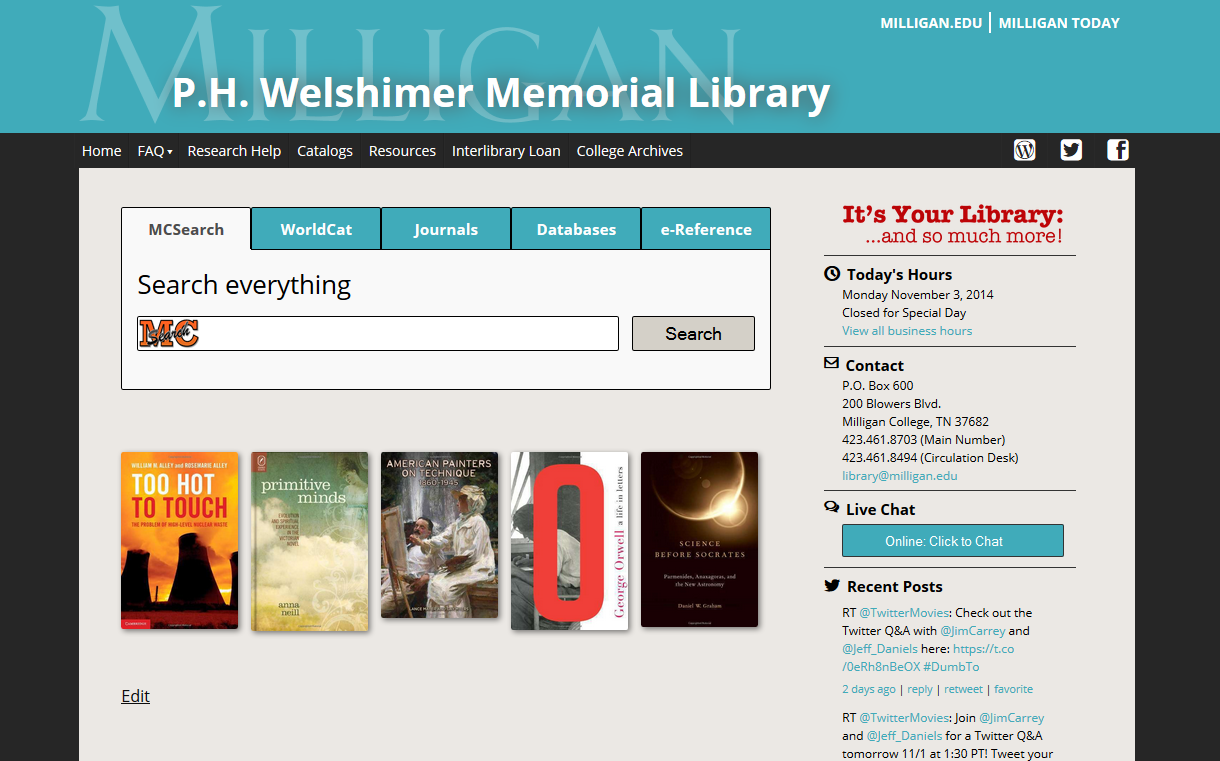
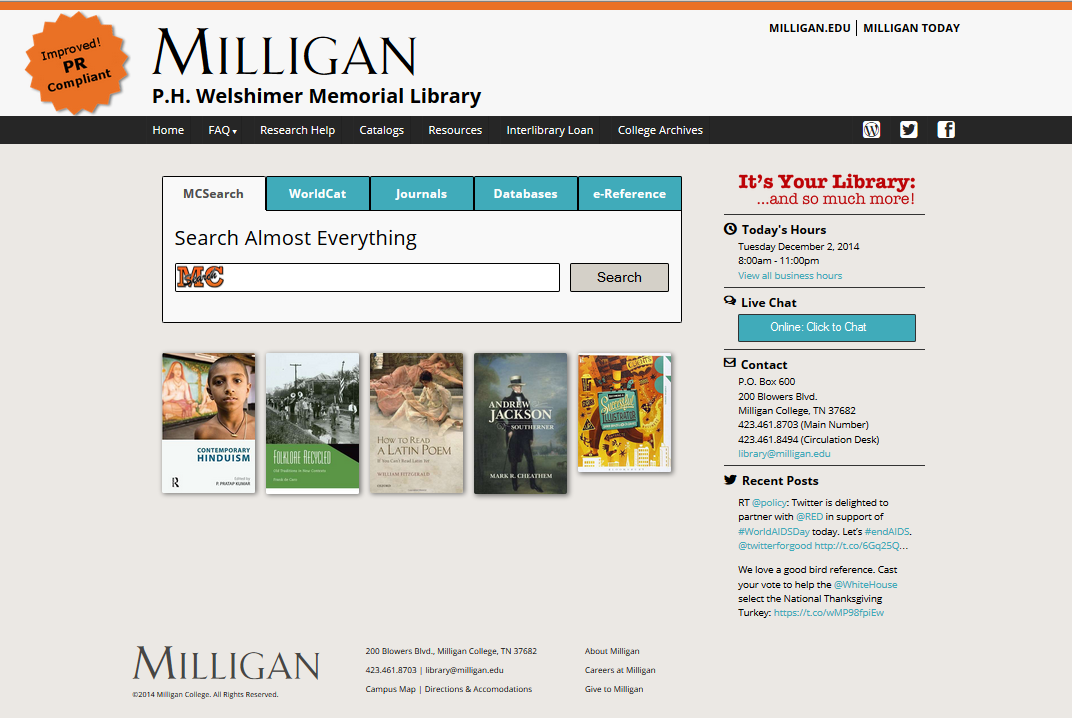
style.css heading comment fix; screenshot replace

diff --git a/style.css b/style.css
@@ -1,1 +1,18 @@
-@import url(http://fonts.googleapis.com/css?family=Open+Sans:400,700);.main-sprite,.main-mc,.main-mcicon,.main-mcsearch,.main-mctop_re,.main-smallstar,.main-top_re,#primary-menu .mcsearch>a:after,.mc:before,.mctop_re:before,.top_re:before,.key-mc,.key-topre{background:url('images/main-sce8efc5731.png') no-repeat}.main-mc{background-position:0 -45px}.main-mcicon{background-position:0 -71px}.main-mcsearch{background-position:0 0}.main-mctop_re{background-position:0 -19px}.main-smallstar{background-position:0 -123px}.main-top_re{background-position:0 -97px}html,body,div,span,applet,object,iframe,h1,h2,h3,h4,h5,h6,p,blockquote,pre,a,abbr,acronym,address,big,cite,code,del,dfn,em,font,ins,kbd,q,s,samp,small,strike,strong,sub,sup,tt,var,dl,dt,dd,ol,ul,li,fieldset,form,label,legend,table,caption,tbody,tfoot,thead,tr,th,td{border:0;font-family:inherit;font-size:100%;font-style:inherit;font-weight:inherit;margin:0;outline:0;padding:0;vertical-align:baseline}html{font-size:62.5%;overflow-y:scroll;-webkit-text-size-adjust:100%;-ms-text-size-adjust:100%}body{background:#fff}article,aside,details,figcaption,figure,footer,header,hgroup,nav,section{display:block}ol,ul{list-style:none}table{border-collapse:separate;border-spacing:0}caption,th,td{font-weight:normal;text-align:left}blockquote:before,blockquote:after,q:before,q:after{content:""}blockquote,q{quotes:"" ""}a:focus{outline:thin dotted}a:hover,a:active{outline:0}a img{border:0}h1,h2,h3,h4,h5,h6{clear:both}h1{font-size:1.25em;font-weight:bold}h2{font-size:1.25em}h3{font-size:1.1em;font-weight:bold}h4{font-weight:bold;font-style:italic}@media all and (max-width: 600px){.entry-title{font-size:1em;overflow:hidden;text-overflow:ellipsis;white-space:nowrap}}hr{background-color:#ccc;border:0;height:1px;margin-bottom:1.5em}p{margin-bottom:1.5em}p:last-of-type{margin-bottom:0}ul,ol{margin:0 0 1.5em 3em}ul{list-style:disc}ol{list-style:decimal}ul ul,ol ol,ul ol,ol ul{margin-bottom:0;margin-left:1.5em}dt{font-weight:bold}dd{margin:0 1.5em 1.5em}b,strong{font-weight:bold}dfn,cite,em,i{font-style:italic}blockquote{margin:0 1.5em}address{margin:0 0 1.5em}pre{background:#eee;font-family:"Courier 10 Pitch", Courier, monospace;font-size:15px;font-size:1.5rem;line-height:1.6;margin-bottom:1.6em;padding:1.6em;overflow:auto;max-width:100%}code,kbd,tt,var{font:15px Monaco, Consolas, "Andale Mono", "DejaVu Sans Mono", monospace}abbr,acronym{border-bottom:1px dotted #666;cursor:help}mark,ins{background:#fff9c0;text-decoration:none}sup,sub{font-size:75%;height:0;line-height:0;position:relative;vertical-align:baseline}sup{bottom:1ex}sub{top:.5ex}small{font-size:75%}big{font-size:125%}figure{margin:0}table{margin:0 0 1.5em;width:100%}th{font-weight:bold}a{color:#000}a:visited{color:#0d0d0d}a:hover,a:focus,a:active{color:#000}.alignleft{display:inline;float:left;margin-right:1.5em}.alignright{display:inline;float:right;margin-left:1.5em}.aligncenter{clear:both;display:block;margin:0 auto}.assistive-text{clip:rect(1px 1px 1px 1px);clip:rect(1px, 1px, 1px, 1px);position:absolute !important}#eds{height:auto;margin:0;padding:0;position:relative}#eds #eds-search{height:3em}@media all and (min-width: 600px){#eds #eds-search{margin:1em 0}}#eds form{width:100%}#eds img{height:2em;position:absolute;top:0.25em;left:0.25em;z-index:1}#eds input{-webkit-box-sizing:border-box;-moz-box-sizing:border-box;box-sizing:border-box;-webkit-border-radius:2px;-moz-border-radius:2px;-ms-border-radius:2px;-o-border-radius:2px;border-radius:2px;border:solid 1px #000;font-size:1.2em;height:2em;padding:0;position:absolute}#eds #ebscohostsearchtext{top:0;left:0;padding:0 2.5em 0 4em;margin:0 0 2em 0;width:100%}#eds #ebscohostsubmit{background-color:#64672d;-webkit-border-radius:2px;-moz-border-radius:2px;-ms-border-radius:2px;-o-border-radius:2px;border-radius:2px;text-shadow:#000 -1px -1px 3px,rgba(0,0,97,0.5) 0px 1px 1px;-webkit-box-shadow:rgba(255,255,255,0.25) 0px 1px 1px 0px inset;-moz-box-shadow:rgba(255,255,255,0.25) 0px 1px 1px 0px inset;box-shadow:rgba(255,255,255,0.25) 0px 1px 1px 0px inset;border-left:solid 1px #333;color:white;font-family:icon-font;top:0;right:0;width:2.5em;z-index:1}#eds #ebscohostsubmit:hover{background-color:#4d4f22;cursor:pointer}#eds #eds-more-toggle{display:none;border-top:solid 1px #64672d;color:#64672d;cursor:pointer;padding:0.25em;text-align:center}#eds #eds-more-toggle:hover{text-decoration:underline}#eds #eds-more-toggle:before{content:'More'}#eds #eds-more-toggle:after{content:'\25BE'}#eds .eds-more-toggle-open:before{content:"Less" !important}#eds .eds-more-toggle-open:after{content:"\25B4" !important}#eds #eds-more{display:none;height:2em;position:relative}#eds #eds-more input[type='checkbox']{margin:0;padding:0}#eds #eds-more label{margin:0;padding:0}#eds .eds-more-open{display:block !important}#quicklinks{overflow:auto;margin:0;padding:0}#quicklinks ul{margin:0;padding:0}#quicklinks li{list-style:none}#quicklinks a{text-decoration:none;display:block;-webkit-border-radius:2px;-moz-border-radius:2px;-ms-border-radius:2px;-o-border-radius:2px;border-radius:2px;background-color:#40abba;color:#fff;margin:0.25em 0;padding:0.5em 2em 0.5em 3em;position:relative;overflow:hidden;text-overflow:ellipsis;white-space:nowrap}#quicklinks a:hover{background-color:#ea7125;color:#fff}#quicklinks a:after{font-family:icon-font;content:'\e016';position:absolute;right:0.5em}#quicklinks a:before{font-family:icon-font;font-size:1.1em;position:absolute;left:1em}#quicklinks .article>a:before{content:"\e008"}#quicklinks .book>a:before{content:"\e00a"}#quicklinks .search>a:before{content:"\e001"}#quicklinks .web>a:before{content:"\e015"}#quicklinks .image>a:before{content:"\e00d"}.lib-thing{padding:3em 0;height:16em;width:100%;overflow:hidden}@media all and (max-width: 600px){.lib-thing{display:none}}#mobile-menu-wrapper{background:#262626;height:46px;color:#fff;display:block;margin:0;padding:0.5em 0.25em;position:fixed;top:0;left:0;text-decoration:none;width:100%;z-index:3;border-bottom:5px solid #ea7125}@media all and (min-width: 800px){#mobile-menu-wrapper{display:none}}#menu-toggle{background-color:transparent;border:none;padding:0.5em;height:3em;cursor:pointer}.icon-bar{background-color:#fff;-webkit-border-radius:2px;-moz-border-radius:2px;-ms-border-radius:2px;-o-border-radius:2px;border-radius:2px;display:block;margin-bottom:0.3em;height:3px;width:2em}#primary-menu .main-navigation{font-size:1.25em;display:none;z-index:1}#primary-menu .main-navigation ul{margin:0;padding:0;background:#333}#primary-menu .main-navigation li{list-style:none}#primary-menu .main-navigation li a{border-left:solid 1px #454545;border-right:solid 1px #212121;color:#fff;display:block;padding:0.5em 1em;text-decoration:none}#primary-menu .parent{cursor:pointer}@media all and (min-width: 800px){#primary-menu .parent>a{padding-right:1em !important}}#primary-menu .parent>a:after{float:right;content:'\002b'}@media all and (min-width: 800px){#primary-menu .parent>a:after{position:absolute;top:0.6em;right:0.25em;padding-left:2px;content:"\25BE" !important}}#primary-menu .open-item>a:after{content:'\2013'}#primary-menu .main-navigation .sub-menu{display:none;margin:0}#primary-menu .main-navigation .sub-menu a{background:#262626;border:none;border-bottom:solid 1px #333;padding:0.5em 3em}#primary-menu .main-navigation .sub-menu a:last-child{border:none}#primary-menu .main-navigation li:hover>a{background:#ea7125;-webkit-transition:all 200ms ease-out;-webkit-transition-delay:100ms;-moz-transition:all 200ms ease-out 100ms;-o-transition:all 200ms ease-out 100ms;transition:all 200ms ease-out 100ms}#primary-menu .display-toggle{display:block !important}#primary-menu .menu-icon{position:relative}#primary-menu .sub-menu .menu-icon a{padding:0.5em 0.5em 0.5em 2.5em !important}#primary-menu .menu-icon>a:before{position:absolute;top:0.35em;left:15px;font-family:icon-font;font-size:1.25em;text-align:center}@media all and (min-width: 800px){#primary-menu .menu-icon>a:before{top:0.4em;left:0.5em;font-size:1.25em}}#primary-menu .article>a:before{content:"\e008"}#primary-menu .audio>a:before{content:"\e009"}#primary-menu .book>a:before{content:"\e00a"}#primary-menu .image>a:before{content:"\e00d"}#primary-menu .search>a:before{content:"\e001"}#primary-menu .sheetmusic>a:before{content:"\e000"}#primary-menu .speech>a:before{content:"\e017"}#primary-menu .video>a:before{content:"\e00c"}#primary-menu .web>a:before{content:"\e015"}#primary-menu .telephone>a:before{content:"\e014"}#primary-menu .mail>a:before{content:"\e002"}#primary-menu .mcsearch>a:before{content:"\e001"}#primary-menu .mcsearch>a:after{display:inline-block;width:3em;height:20px;position:absolute;right:1.5em;top:0.5em;content:"";background-position:0 0}#primary-menu .twitter>a:before{content:"\e01c"}#primary-menu .facebook>a:before{content:"\e019"}#primary-menu .wordpress>a:before{content:"\e02a"}#primary-menu .div-below{border-bottom:solid 1px #1a1a1a}@media all and (min-width: 800px){#primary-menu .div-below{border-bottom:solid 1px #262626}}#primary-menu .div-below>a{padding-bottom:0.25em}#primary-menu .div-above{border-top:solid 1px #333}@media all and (min-width: 800px){#primary-menu .div-above{border-top:solid 1px #404040}}#primary-menu .div-above>a{padding-top:0.25empx}@media all and (min-width: 800px){#primary-menu #topbar{background-color:#262626;position:absolute;width:100%;min-width:960px;left:0;top:9.5em;z-index:1;height:2.5em}#primary-menu .main-navigation{background:#262626;clear:both;display:block;font-size:1em;position:relative;top:9.5em;left:3.2em;width:93%;z-index:99999}#primary-menu .main-navigation ul{list-style:none;margin:0;padding-left:0}#primary-menu .main-navigation li{float:left;position:relative}#primary-menu .main-navigation li a{background:#262626;border-left:solid 1px #292929;border-right:solid 1px #212121;display:block;padding:0.5em;text-decoration:none}#primary-menu .main-navigation .sub-menu{-webkit-transition:all 200ms ease-out;-webkit-transition-delay:100ms;-moz-transition:all 200ms ease-out 100ms;-o-transition:all 200ms ease-out 100ms;transition:all 200ms ease-out 100ms;display:block;float:left;margin:0;opacity:0;position:absolute;top:2.5em;left:0;visibility:hidden}#primary-menu .main-navigation .sub-menu a{background:#333;border-top:#262626;padding:0.5em}#primary-menu .main-navigation ul ul a{width:18em}#primary-menu .main-navigation ul li:hover>ul{visibility:visible;opacity:1}#primary-menu #menu-primary li{margin-right:1em}}.secondary-menu-main{display:none}.secondary-menu-select{display:none;position:fixed;top:0.8em;right:1em;z-index:4}.secondary-menu-select select{width:6.5em}@media all and (min-width: 800px){.secondary-menu-main{display:block;width:32em;position:absolute;top:5px;right:5px;z-index:1}.secondary-menu-main ul{margin:0;padding:0}.secondary-menu-main li{list-style:none;float:right;position:relative;margin:0.5em 0.25em;padding-right:0.5em;border-right:solid 2px #000}.secondary-menu-main li:first-child{border:none}.secondary-menu-main a{color:#000;font-weight:700;text-decoration:none;text-shadow:none;display:block;height:1.5em}.secondary-menu-main a:hover{color:#ea7125}.secondary-menu-select{display:none}}.main-login{width:4em}.main-news{width:8em}.main-home{width:8.25em}.hentry{margin:0 0 1.5em}.entry-meta{clear:both}.byline{display:none}.single .byline,.group-blog .byline{display:inline}.entry-content,.entry-summary{margin:0.5em 0 0}.page-links{clear:both;margin:0 0 1.5em}.blog .format-aside .entry-title,.archive .format-aside .entry-title{display:none}.site-header img,.entry-content img,.comment-content img,.widget img{max-width:100%}.site-header img,.entry-content img,img[class*="align"],img[class*="wp-image-"]{height:auto}.site-header img,.entry-content img,img.size-full{max-width:100%;width:auto}.entry-content img.wp-smiley,.comment-content img.wp-smiley{border:none;margin-bottom:0;margin-top:0;padding:0}.wp-caption{border:1px solid #ccc;max-width:100%}.wp-caption.aligncenter,.wp-caption.alignleft,.wp-caption.alignright{margin-bottom:1.5em}.wp-caption img{display:block;margin:1.2% auto 0;max-width:98%}.wp-caption-text{text-align:center}.wp-caption .wp-caption-text{margin:0.8075em 0}#content .gallery{margin-bottom:1.5em}#content .gallery a img{border:none;height:auto;max-width:90%}#content .gallery dd{margin:0}embed,iframe,object{max-width:100%}#content .site-navigation{margin:0 0 1.5em;overflow:hidden}#content .nav-previous{float:left;width:50%}#content .nav-next{float:right;text-align:right;width:50%}.widget{margin:0}.clock-icon:before{margin-right:0.5em;font-family:icon-font;content:"\e600"}#searchsubmit{display:none}#secondary aside{padding:0.5em 0;border-bottom:1px solid #333}#secondary aside a{text-decoration:none;color:#40abba}#secondary aside a:visited{color:#40abba}#secondary aside a:focus{color:#40abba}#secondary aside a:hover{color:#ea7125}#secondary aside a:active{color:#40abba}#secondary aside a:hover{text-decoration:underline}#secondary aside:first-child{padding-top:0}#secondary aside:last-child{-webkit-box-shadow:none;-moz-box-shadow:none;box-shadow:none;border-bottom:none;padding-bottom:0}.textwidget{padding:0 1em 0 1.5em}.contact-icon:before{margin-right:0.5em;font-family:icon-font;content:"\e002"}.twitter-icon:before{margin-right:0.5em;font-family:icon-font;content:"\e01c"}#twitter .tweet-text,#twitter .tweet-foot{padding:0 0 0.5em 0}#twitter .tweet-foot{display:none;font-size:0.9em}#twitter .tweet{padding:0.5em 0 0 0}#twitter .tweet:last-of-type{border-bottom:none}.libraryh3lp{margin:0;padding:0}.libraryh3lp a:hover{text-decoration:none}.chat-icon:before{margin-right:0.5em;font-family:icon-font;content:"\e017"}.live-chat{position:relative;overflow:auto;-webkit-border-radius:2px;-moz-border-radius:2px;-ms-border-radius:2px;-o-border-radius:2px;border-radius:2px;background-color:#40abba;border:solid 1px #333;color:#fff;margin:0.25em 0;padding:0.5em 2em 0.5em 0.5em;width:100%;cursor:pointer}.on{background-color:#40abba}.on:hover{-webkit-transition:all 200ms ease-out;-webkit-transition-delay:100ms;-moz-transition:all 200ms ease-out 100ms;-o-transition:all 200ms ease-out 100ms;transition:all 200ms ease-out 100ms;background-color:#ea7125;color:#fff}.off{background-color:#ebe8e4;color:#333}.off:hover{background-color:#ebe8e4;color:#333}*{-webkit-box-sizing:border-box;-moz-box-sizing:border-box;box-sizing:border-box}html{position:relative;top:46px}@media all and (min-width: 800px){html{top:0;border-top:10px solid #ea7125}}body{background-image:url('images/bg.png?1417464156');background-color:#ebe8e4;background-repeat:repeat-x;min-width:320px;max-width:1100px;position:static}@media all and (min-width: 800px){body{min-width:960px;margin:0 auto}}.site-header{background-color:#f7f7f7;height:8.5em}@media all and (min-width: 600px){.site-header{height:11em}}@media all and (min-width: 800px){.site-header{height:16em}}.milligan-logo{font:normal normal normal 5em 'icon-font';color:#000;margin:0.1em 0 0 0.1em;float:left}.milligan-logo img{width:100%;height:auto}@media all and (min-width: 600px){.milligan-logo{font-size:6em;margin:0.15em 0 0 0.1em}}@media all and (min-width: 800px){.milligan-logo{font-size:6em;margin:-0.3em 0 0 0.5em}}.welshimer-logo{position:relative;font-family:"open sans", sans-serif;font-style:normal;font-size:1.8em;color:#000;margin:-0.1em 0px 0px 0.2em;float:left}@media all and (min-width: 600px){.welshimer-logo{font-size:2.5em;margin:0em 0 0 0.2em}}@media all and (min-width: 800px){.welshimer-logo{font-size:2.5em;margin:0em 0 0 1.2em}}.social-menu{float:left;width:100%;font-family:'icon-font';z-index:999999}.social-menu ul{overflow:auto}.social-menu li{text-align:center;width:33.3333%;margin:0;font-size:1.5em;list-style:none;float:left}@media all and (min-width: 800px){.social-menu{width:10em;position:absolute;top:0;right:0}.social-menu ul{background-color:transparent !important}.social-menu a{padding:0.075em 0.5em !important}.social-menu a:last-of-type{border-right:none !important}}#page{background-color:#ebe8e4;position:relative;margin:0;width:100%;overflow:hidden}@media all and (min-width: 800px){#page{margin:0 2%;max-width:1100px;overflow:visible;width:96%}}.site-content{float:left;margin:0 -22em 0 0;width:100%}@media all and (min-width: 800px){.site-content{padding:1% 0 0 2.5%;min-height:62em}}#content{margin:0 1em 0 0}@media all and (min-width: 800px){#content{margin:0 32em 0 0}}.widget-area{background:#fff;overflow:visible;width:22em;position:absolute;top:10em;right:-20.5em;-webkit-border-radius:2px;-moz-border-radius:2px;-ms-border-radius:2px;-o-border-radius:2px;border-radius:2px;z-index:99;transition:right linear 0.25s;border:1px solid #000;border-right:none}@media all and (min-width: 800px){.widget-area{background:#ebe8e4;-moz-border-radius-topleft:2px;-webkit-border-top-left-radius:2px;border-top-left-radius:2px;-moz-border-radius-bottomleft:2px;-webkit-border-bottom-left-radius:2px;border-bottom-left-radius:2px;right:5%;top:15.75em;transition:none;border:none}}.side-expand{display:block;visibility:visible;position:absolute;top:5%;left:0;width:1.3em;height:90%;background-color:#fff;z-index:0}.side-expand:after{font-family:icon-font;font-size:1em;color:#000;content:"\e00e";position:absolute;top:49%;left:5px;vertical-align:center;cursor:pointer}.side-expand:hover:after{color:#000;left:5px}@media all and (min-width: 800px){.side-expand{visibility:hidden}}.side-expand-open{right:0}.side-expand-open .side-expand:after{content:"\e00f"}#tertiary{clear:right}#colophon{clear:both}.site-footer{background:#ebe8e4;color:#000 !important;width:100%;height:8em}@media all and (min-width: 800px){.site-footer{background:transparent}}.footer-logo{font-family:'icon-font';font-size:3.5em;display:block;opacity:0.7}.footer-logo img{width:18em}.site-info{display:block;font-size:75%}.footer-column{display:inline-block;float:left;margin-right:5em}.footer-column p{margin:0;padding-top:0.8em;font-size:85%}.footer-column p a{text-decoration:none}.footer-column p a:hover{text-decoration:underline}.foot-noscript{font-family:"Open Sans",sans-serif;text-align:center;background:rgba(255,0,0,0.9);color:#fff;font-size:1.5em;height:4em;padding:1em 0;margin:0;position:fixed;bottom:0;left:0;width:100%;z-index:999999999}.foot-noscript a{color:#fff;font-weight:bold;text-decoration:underline}.old-ie-nojs{display:none}.profile{display:block;margin-top:2em}.profile p{margin-bottom:1em}.profile img{display:block}@font-face{font-family:"icon-font";font-style:normal;font-weight:normal;src:url("fonts/icomoon.eot?#iefix") format("embedded-opentype"),url("fonts/icomoon.woff") format("woff"),url("fonts/icomoon.ttf") format("truetype"),url("fonts/icomoon.svg#icon-font") format("svg")}.body-text{color:#000;font-family:"Open Sans",sans-serif;font-size:1.6em;font-weight:regular;line-height:1.5;padding:1em}.menu-text{color:#e6e6e6;font-family:"Open Sans",sans-serif;font-size:1.4em;font-weight:100;line-height:1.5}.widget-text{color:#000;font-family:"Open Sans",sans-serif;font-size:1.2em;font-weight:regular;line-height:1.5;padding:0.5em 0.5em 0.5em 1.5em}@media all and (min-width: 800px){.widget-text{color:#000;padding:0.5em}}.alert{-webkit-border-radius:2px;-moz-border-radius:2px;-ms-border-radius:2px;-o-border-radius:2px;border-radius:2px;font-size:0.8em;padding:0.75em}.success{border:1px solid #64672d;background-color:#e8e9cd}.success a{color:#64672d}.success:focus{background-color:#fff}.fail{border:1px solid #bf0000;background-color:#ffe3e3}.fail a{color:#bf0000}.fail:focus{background-color:#fff}.info{border:1px solid #40abba;background-color:#fff}.info a{color:#40abba}.info:focus{background-color:#fff}.laylah{left:-9999px;position:absolute;top:-9999px}.welshimer-form .form{margin:0.5em 0}.welshimer-form .submit{display:block;-webkit-border-radius:2px;-moz-border-radius:2px;-ms-border-radius:2px;-o-border-radius:2px;border-radius:2px;background-color:#40abba;border:solid 1px #333;color:#fff;margin:1em 0;padding:0.5em 2em;text-align:center;text-decoration:none}.welshimer-form .submit:hover{-webkit-transition:all 200ms ease-out;-webkit-transition-delay:100ms;-moz-transition:all 200ms ease-out 100ms;-o-transition:all 200ms ease-out 100ms;transition:all 200ms ease-out 100ms;background-color:#ea7125;cursor:pointer}.welshimer-form .text,.welshimer-form .textarea{display:inline-block;width:100%;padding:0.5em;margin-right:1%;vertical-align:top}.welshimer-form .quarter{width:24%}.welshimer-form .half{width:49%}.welshimer-form .three-fourths{width:74%}.welshimer-form .full{width:99%}.welshimer-form .label{display:block}@media all and (min-width: 600px){.welshimer-form .text,.welshimer-form .textarea{width:74%}.welshimer-form .three-fourths{width:49%}.welshimer-form .half{width:24%}.welshimer-form .quarter{width:24%}.welshimer-form .label{display:inline-block;width:24%;margin-right:1%}}.acc-list{margin:0.5em 0;padding:0;list-style:none}.acc-list-category{display:block;-webkit-border-radius:2px;-moz-border-radius:2px;-ms-border-radius:2px;-o-border-radius:2px;border-radius:2px;background-color:#40abba;color:#fff;cursor:pointer;margin:0.25em 0;padding:0.5em 2em 0.5em 0.5em;position:relative;overflow:hidden;text-overflow:ellipsis;white-space:nowrap}.acc-list-category:hover{background-color:#ea7125;color:#fff}.acc-list-category:after{content:'\002b';position:absolute;right:0.5em;font-family:icon-font}div.acc-list a.acc-list-category{white-space:normal}div.acc-list a.acc-list-category:after{content:none}.open-item>a:after{content:'\2013'}.acc-sublist{border-left:solid 1px #40abba;list-style:none;margin:0;padding:0}.acc-sublist li{background:rgba(100,103,45,0.05);padding:0 0 0 3.5em;position:relative}.acc-sublist li:before{content:"";display:inline-block;width:3em;height:26px;position:absolute;left:0.25em;top:0}.acc-sublist li:nth-of-type(even){background:rgba(64,171,186,0.2)}.acc-sublist li:hover{background:rgba(64,171,186,0.4)}.acc-sublist a{color:#000;text-decoration:none}div.acc-list div.acc-sublist{padding:10px}div.acc-list div.acc-sublist li{padding:0}div.acc-list div.open-item>a:after{content:none !important}.mc:before{background-position:0 -45px}.mctop_re:before{background-position:0 -19px}.top_re:before{background-position:0 -97px}.key span{display:block;margin:0.25em;padding:0 0 0 2em}.key-mc{background-position:0 -45px}.key-topre{background-position:0 -123px}.hidden{display:none !important}.logged-in #mobile-menu-wrapper{top:0px}.logged-in .secondary-menu-select{top:12px}
+/*!
+Theme Name: Welshimer 2015 PR Compliant Edition
+Theme URI: http://github.com/dbaker3/welshimer2015
+Author: David Baker
+Author URI: http://github.com/dbaker3/
+Description: P.H. Welshimer Memorial Library
+Version: 1.0
+License: GNU General Public License v2 or later
+License URI: http://www.gnu.org/licenses/gpl-2.0.html
+Tags: MilliganCollege
+Text Domain: Welshimer
+
+Forked from Welshimer2013_r by Jack Weinbender: 
+(https://github.com/mclibrary/welshimer2013_r)
+
+This theme, like WordPress, is licensed under the GPL.
+Built on _s by Automattic
+*/@import url(http://fonts.googleapis.com/css?family=Open+Sans:400,700);.main-sprite,.main-mc,.main-mcicon,.main-mcsearch,.main-mctop_re,.main-smallstar,.main-top_re,#primary-menu .mcsearch>a:after,.mc:before,.mctop_re:before,.top_re:before,.key-mc,.key-topre{background:url('images/main-sce8efc5731.png') no-repeat}.main-mc{background-position:0 -45px}.main-mcicon{background-position:0 -71px}.main-mcsearch{background-position:0 0}.main-mctop_re{background-position:0 -19px}.main-smallstar{background-position:0 -123px}.main-top_re{background-position:0 -97px}html,body,div,span,applet,object,iframe,h1,h2,h3,h4,h5,h6,p,blockquote,pre,a,abbr,acronym,address,big,cite,code,del,dfn,em,font,ins,kbd,q,s,samp,small,strike,strong,sub,sup,tt,var,dl,dt,dd,ol,ul,li,fieldset,form,label,legend,table,caption,tbody,tfoot,thead,tr,th,td{border:0;font-family:inherit;font-size:100%;font-style:inherit;font-weight:inherit;margin:0;outline:0;padding:0;vertical-align:baseline}html{font-size:62.5%;overflow-y:scroll;-webkit-text-size-adjust:100%;-ms-text-size-adjust:100%}body{background:#fff}article,aside,details,figcaption,figure,footer,header,hgroup,nav,section{display:block}ol,ul{list-style:none}table{border-collapse:separate;border-spacing:0}caption,th,td{font-weight:normal;text-align:left}blockquote:before,blockquote:after,q:before,q:after{content:""}blockquote,q{quotes:"" ""}a:focus{outline:thin dotted}a:hover,a:active{outline:0}a img{border:0}h1,h2,h3,h4,h5,h6{clear:both}h1{font-size:1.25em;font-weight:bold}h2{font-size:1.25em}h3{font-size:1.1em;font-weight:bold}h4{font-weight:bold;font-style:italic}@media all and (max-width: 600px){.entry-title{font-size:1em;overflow:hidden;text-overflow:ellipsis;white-space:nowrap}}hr{background-color:#ccc;border:0;height:1px;margin-bottom:1.5em}p{margin-bottom:1.5em}p:last-of-type{margin-bottom:0}ul,ol{margin:0 0 1.5em 3em}ul{list-style:disc}ol{list-style:decimal}ul ul,ol ol,ul ol,ol ul{margin-bottom:0;margin-left:1.5em}dt{font-weight:bold}dd{margin:0 1.5em 1.5em}b,strong{font-weight:bold}dfn,cite,em,i{font-style:italic}blockquote{margin:0 1.5em}address{margin:0 0 1.5em}pre{background:#eee;font-family:"Courier 10 Pitch", Courier, monospace;font-size:15px;font-size:1.5rem;line-height:1.6;margin-bottom:1.6em;padding:1.6em;overflow:auto;max-width:100%}code,kbd,tt,var{font:15px Monaco, Consolas, "Andale Mono", "DejaVu Sans Mono", monospace}abbr,acronym{border-bottom:1px dotted #666;cursor:help}mark,ins{background:#fff9c0;text-decoration:none}sup,sub{font-size:75%;height:0;line-height:0;position:relative;vertical-align:baseline}sup{bottom:1ex}sub{top:.5ex}small{font-size:75%}big{font-size:125%}figure{margin:0}table{margin:0 0 1.5em;width:100%}th{font-weight:bold}a{color:#000}a:visited{color:#0d0d0d}a:hover,a:focus,a:active{color:#000}.alignleft{display:inline;float:left;margin-right:1.5em}.alignright{display:inline;float:right;margin-left:1.5em}.aligncenter{clear:both;display:block;margin:0 auto}.assistive-text{clip:rect(1px 1px 1px 1px);clip:rect(1px, 1px, 1px, 1px);position:absolute !important}#eds{height:auto;margin:0;padding:0;position:relative}#eds #eds-search{height:3em}@media all and (min-width: 600px){#eds #eds-search{margin:1em 0}}#eds form{width:100%}#eds img{height:2em;position:absolute;top:0.25em;left:0.25em;z-index:1}#eds input{-webkit-box-sizing:border-box;-moz-box-sizing:border-box;box-sizing:border-box;-webkit-border-radius:2px;-moz-border-radius:2px;-ms-border-radius:2px;-o-border-radius:2px;border-radius:2px;border:solid 1px #000;font-size:1.2em;height:2em;padding:0;position:absolute}#eds #ebscohostsearchtext{top:0;left:0;padding:0 2.5em 0 4em;margin:0 0 2em 0;width:100%}#eds #ebscohostsubmit{background-color:#64672d;-webkit-border-radius:2px;-moz-border-radius:2px;-ms-border-radius:2px;-o-border-radius:2px;border-radius:2px;text-shadow:#000 -1px -1px 3px,rgba(0,0,97,0.5) 0px 1px 1px;-webkit-box-shadow:rgba(255,255,255,0.25) 0px 1px 1px 0px inset;-moz-box-shadow:rgba(255,255,255,0.25) 0px 1px 1px 0px inset;box-shadow:rgba(255,255,255,0.25) 0px 1px 1px 0px inset;border-left:solid 1px #333;color:white;font-family:icon-font;top:0;right:0;width:2.5em;z-index:1}#eds #ebscohostsubmit:hover{background-color:#4d4f22;cursor:pointer}#eds #eds-more-toggle{display:none;border-top:solid 1px #64672d;color:#64672d;cursor:pointer;padding:0.25em;text-align:center}#eds #eds-more-toggle:hover{text-decoration:underline}#eds #eds-more-toggle:before{content:'More'}#eds #eds-more-toggle:after{content:'\25BE'}#eds .eds-more-toggle-open:before{content:"Less" !important}#eds .eds-more-toggle-open:after{content:"\25B4" !important}#eds #eds-more{display:none;height:2em;position:relative}#eds #eds-more input[type='checkbox']{margin:0;padding:0}#eds #eds-more label{margin:0;padding:0}#eds .eds-more-open{display:block !important}#quicklinks{overflow:auto;margin:0;padding:0}#quicklinks ul{margin:0;padding:0}#quicklinks li{list-style:none}#quicklinks a{text-decoration:none;display:block;-webkit-border-radius:2px;-moz-border-radius:2px;-ms-border-radius:2px;-o-border-radius:2px;border-radius:2px;background-color:#40abba;color:#fff;margin:0.25em 0;padding:0.5em 2em 0.5em 3em;position:relative;overflow:hidden;text-overflow:ellipsis;white-space:nowrap}#quicklinks a:hover{background-color:#ea7125;color:#fff}#quicklinks a:after{font-family:icon-font;content:'\e016';position:absolute;right:0.5em}#quicklinks a:before{font-family:icon-font;font-size:1.1em;position:absolute;left:1em}#quicklinks .article>a:before{content:"\e008"}#quicklinks .book>a:before{content:"\e00a"}#quicklinks .search>a:before{content:"\e001"}#quicklinks .web>a:before{content:"\e015"}#quicklinks .image>a:before{content:"\e00d"}.lib-thing{padding:3em 0;height:16em;width:100%;overflow:hidden}@media all and (max-width: 600px){.lib-thing{display:none}}#mobile-menu-wrapper{background:#262626;height:46px;color:#fff;display:block;margin:0;padding:0.5em 0.25em;position:fixed;top:0;left:0;text-decoration:none;width:100%;z-index:3;border-bottom:5px solid #ea7125}@media all and (min-width: 800px){#mobile-menu-wrapper{display:none}}#menu-toggle{background-color:transparent;border:none;padding:0.5em;height:3em;cursor:pointer}.icon-bar{background-color:#fff;-webkit-border-radius:2px;-moz-border-radius:2px;-ms-border-radius:2px;-o-border-radius:2px;border-radius:2px;display:block;margin-bottom:0.3em;height:3px;width:2em}#primary-menu .main-navigation{font-size:1.25em;display:none;z-index:1}#primary-menu .main-navigation ul{margin:0;padding:0;background:#333}#primary-menu .main-navigation li{list-style:none}#primary-menu .main-navigation li a{border-left:solid 1px #454545;border-right:solid 1px #212121;color:#fff;display:block;padding:0.5em 1em;text-decoration:none}#primary-menu .parent{cursor:pointer}@media all and (min-width: 800px){#primary-menu .parent>a{padding-right:1em !important}}#primary-menu .parent>a:after{float:right;content:'\002b'}@media all and (min-width: 800px){#primary-menu .parent>a:after{position:absolute;top:0.6em;right:0.25em;padding-left:2px;content:"\25BE" !important}}#primary-menu .open-item>a:after{content:'\2013'}#primary-menu .main-navigation .sub-menu{display:none;margin:0}#primary-menu .main-navigation .sub-menu a{background:#262626;border:none;border-bottom:solid 1px #333;padding:0.5em 3em}#primary-menu .main-navigation .sub-menu a:last-child{border:none}#primary-menu .main-navigation li:hover>a{background:#ea7125;-webkit-transition:all 200ms ease-out;-webkit-transition-delay:100ms;-moz-transition:all 200ms ease-out 100ms;-o-transition:all 200ms ease-out 100ms;transition:all 200ms ease-out 100ms}#primary-menu .display-toggle{display:block !important}#primary-menu .menu-icon{position:relative}#primary-menu .sub-menu .menu-icon a{padding:0.5em 0.5em 0.5em 2.5em !important}#primary-menu .menu-icon>a:before{position:absolute;top:0.35em;left:15px;font-family:icon-font;font-size:1.25em;text-align:center}@media all and (min-width: 800px){#primary-menu .menu-icon>a:before{top:0.4em;left:0.5em;font-size:1.25em}}#primary-menu .article>a:before{content:"\e008"}#primary-menu .audio>a:before{content:"\e009"}#primary-menu .book>a:before{content:"\e00a"}#primary-menu .image>a:before{content:"\e00d"}#primary-menu .search>a:before{content:"\e001"}#primary-menu .sheetmusic>a:before{content:"\e000"}#primary-menu .speech>a:before{content:"\e017"}#primary-menu .video>a:before{content:"\e00c"}#primary-menu .web>a:before{content:"\e015"}#primary-menu .telephone>a:before{content:"\e014"}#primary-menu .mail>a:before{content:"\e002"}#primary-menu .mcsearch>a:before{content:"\e001"}#primary-menu .mcsearch>a:after{display:inline-block;width:3em;height:20px;position:absolute;right:1.5em;top:0.5em;content:"";background-position:0 0}#primary-menu .twitter>a:before{content:"\e01c"}#primary-menu .facebook>a:before{content:"\e019"}#primary-menu .wordpress>a:before{content:"\e02a"}#primary-menu .div-below{border-bottom:solid 1px #1a1a1a}@media all and (min-width: 800px){#primary-menu .div-below{border-bottom:solid 1px #262626}}#primary-menu .div-below>a{padding-bottom:0.25em}#primary-menu .div-above{border-top:solid 1px #333}@media all and (min-width: 800px){#primary-menu .div-above{border-top:solid 1px #404040}}#primary-menu .div-above>a{padding-top:0.25empx}@media all and (min-width: 800px){#primary-menu #topbar{background-color:#262626;position:absolute;width:100%;min-width:960px;left:0;top:9.5em;z-index:1;height:2.5em}#primary-menu .main-navigation{background:#262626;clear:both;display:block;font-size:1em;position:relative;top:9.5em;left:3.2em;width:93%;z-index:99999}#primary-menu .main-navigation ul{list-style:none;margin:0;padding-left:0}#primary-menu .main-navigation li{float:left;position:relative}#primary-menu .main-navigation li a{background:#262626;border-left:solid 1px #292929;border-right:solid 1px #212121;display:block;padding:0.5em;text-decoration:none}#primary-menu .main-navigation .sub-menu{-webkit-transition:all 200ms ease-out;-webkit-transition-delay:100ms;-moz-transition:all 200ms ease-out 100ms;-o-transition:all 200ms ease-out 100ms;transition:all 200ms ease-out 100ms;display:block;float:left;margin:0;opacity:0;position:absolute;top:2.5em;left:0;visibility:hidden}#primary-menu .main-navigation .sub-menu a{background:#333;border-top:#262626;padding:0.5em}#primary-menu .main-navigation ul ul a{width:18em}#primary-menu .main-navigation ul li:hover>ul{visibility:visible;opacity:1}#primary-menu #menu-primary li{margin-right:1em}}.secondary-menu-main{display:none}.secondary-menu-select{display:none;position:fixed;top:0.8em;right:1em;z-index:4}.secondary-menu-select select{width:6.5em}@media all and (min-width: 800px){.secondary-menu-main{display:block;width:32em;position:absolute;top:5px;right:5px;z-index:1}.secondary-menu-main ul{margin:0;padding:0}.secondary-menu-main li{list-style:none;float:right;position:relative;margin:0.5em 0.25em;padding-right:0.5em;border-right:solid 2px #000}.secondary-menu-main li:first-child{border:none}.secondary-menu-main a{color:#000;font-weight:700;text-decoration:none;text-shadow:none;display:block;height:1.5em}.secondary-menu-main a:hover{color:#ea7125}.secondary-menu-select{display:none}}.main-login{width:4em}.main-news{width:8em}.main-home{width:8.25em}.hentry{margin:0 0 1.5em}.entry-meta{clear:both}.byline{display:none}.single .byline,.group-blog .byline{display:inline}.entry-content,.entry-summary{margin:0.5em 0 0}.page-links{clear:both;margin:0 0 1.5em}.blog .format-aside .entry-title,.archive .format-aside .entry-title{display:none}.site-header img,.entry-content img,.comment-content img,.widget img{max-width:100%}.site-header img,.entry-content img,img[class*="align"],img[class*="wp-image-"]{height:auto}.site-header img,.entry-content img,img.size-full{max-width:100%;width:auto}.entry-content img.wp-smiley,.comment-content img.wp-smiley{border:none;margin-bottom:0;margin-top:0;padding:0}.wp-caption{border:1px solid #ccc;max-width:100%}.wp-caption.aligncenter,.wp-caption.alignleft,.wp-caption.alignright{margin-bottom:1.5em}.wp-caption img{display:block;margin:1.2% auto 0;max-width:98%}.wp-caption-text{text-align:center}.wp-caption .wp-caption-text{margin:0.8075em 0}#content .gallery{margin-bottom:1.5em}#content .gallery a img{border:none;height:auto;max-width:90%}#content .gallery dd{margin:0}embed,iframe,object{max-width:100%}#content .site-navigation{margin:0 0 1.5em;overflow:hidden}#content .nav-previous{float:left;width:50%}#content .nav-next{float:right;text-align:right;width:50%}.widget{margin:0}.clock-icon:before{margin-right:0.5em;font-family:icon-font;content:"\e600"}#searchsubmit{display:none}#secondary aside{padding:0.5em 0;border-bottom:1px solid #333}#secondary aside a{text-decoration:none;color:#40abba}#secondary aside a:visited{color:#40abba}#secondary aside a:focus{color:#40abba}#secondary aside a:hover{color:#ea7125}#secondary aside a:active{color:#40abba}#secondary aside a:hover{text-decoration:underline}#secondary aside:first-child{padding-top:0}#secondary aside:last-child{-webkit-box-shadow:none;-moz-box-shadow:none;box-shadow:none;border-bottom:none;padding-bottom:0}.textwidget{padding:0 1em 0 1.5em}.contact-icon:before{margin-right:0.5em;font-family:icon-font;content:"\e002"}.twitter-icon:before{margin-right:0.5em;font-family:icon-font;content:"\e01c"}#twitter .tweet-text,#twitter .tweet-foot{padding:0 0 0.5em 0}#twitter .tweet-foot{display:none;font-size:0.9em}#twitter .tweet{padding:0.5em 0 0 0}#twitter .tweet:last-of-type{border-bottom:none}.libraryh3lp{margin:0;padding:0}.libraryh3lp a:hover{text-decoration:none}.chat-icon:before{margin-right:0.5em;font-family:icon-font;content:"\e017"}.live-chat{position:relative;overflow:auto;-webkit-border-radius:2px;-moz-border-radius:2px;-ms-border-radius:2px;-o-border-radius:2px;border-radius:2px;background-color:#40abba;border:solid 1px #333;color:#fff;margin:0.25em 0;padding:0.5em 2em 0.5em 0.5em;width:100%;cursor:pointer}.on{background-color:#40abba}.on:hover{-webkit-transition:all 200ms ease-out;-webkit-transition-delay:100ms;-moz-transition:all 200ms ease-out 100ms;-o-transition:all 200ms ease-out 100ms;transition:all 200ms ease-out 100ms;background-color:#ea7125;color:#fff}.off{background-color:#ebe8e4;color:#333}.off:hover{background-color:#ebe8e4;color:#333}*{-webkit-box-sizing:border-box;-moz-box-sizing:border-box;box-sizing:border-box}html{position:relative;top:46px}@media all and (min-width: 800px){html{top:0;border-top:10px solid #ea7125}}body{background-image:url('images/bg.png?1417464156');background-color:#ebe8e4;background-repeat:repeat-x;min-width:320px;max-width:1100px;position:static}@media all and (min-width: 800px){body{min-width:960px;margin:0 auto}}.site-header{background-color:#f7f7f7;height:8.5em}@media all and (min-width: 600px){.site-header{height:11em}}@media all and (min-width: 800px){.site-header{height:16em}}.milligan-logo{font:normal normal normal 5em 'icon-font';color:#000;margin:0.1em 0 0 0.1em;float:left}.milligan-logo img{width:100%;height:auto}@media all and (min-width: 600px){.milligan-logo{font-size:6em;margin:0.15em 0 0 0.1em}}@media all and (min-width: 800px){.milligan-logo{font-size:6em;margin:-0.3em 0 0 0.5em}}.welshimer-logo{position:relative;font-family:"open sans", sans-serif;font-style:normal;font-size:1.8em;color:#000;margin:-0.1em 0px 0px 0.2em;float:left}@media all and (min-width: 600px){.welshimer-logo{font-size:2.5em;margin:0em 0 0 0.2em}}@media all and (min-width: 800px){.welshimer-logo{font-size:2.5em;margin:0em 0 0 1.2em}}.social-menu{float:left;width:100%;font-family:'icon-font';z-index:999999}.social-menu ul{overflow:auto}.social-menu li{text-align:center;width:33.3333%;margin:0;font-size:1.5em;list-style:none;float:left}@media all and (min-width: 800px){.social-menu{width:10em;position:absolute;top:0;right:0}.social-menu ul{background-color:transparent !important}.social-menu a{padding:0.075em 0.5em !important}.social-menu a:last-of-type{border-right:none !important}}#page{background-color:#ebe8e4;position:relative;margin:0;width:100%;overflow:hidden}@media all and (min-width: 800px){#page{margin:0 2%;max-width:1100px;overflow:visible;width:96%}}.site-content{float:left;margin:0 -22em 0 0;width:100%}@media all and (min-width: 800px){.site-content{padding:1% 0 0 2.5%;min-height:62em}}#content{margin:0 1em 0 0}@media all and (min-width: 800px){#content{margin:0 32em 0 0}}.widget-area{background:#fff;overflow:visible;width:22em;position:absolute;top:10em;right:-20.5em;-webkit-border-radius:2px;-moz-border-radius:2px;-ms-border-radius:2px;-o-border-radius:2px;border-radius:2px;z-index:99;transition:right linear 0.25s;border:1px solid #000;border-right:none}@media all and (min-width: 800px){.widget-area{background:#ebe8e4;-moz-border-radius-topleft:2px;-webkit-border-top-left-radius:2px;border-top-left-radius:2px;-moz-border-radius-bottomleft:2px;-webkit-border-bottom-left-radius:2px;border-bottom-left-radius:2px;right:5%;top:15.75em;transition:none;border:none}}.side-expand{display:block;visibility:visible;position:absolute;top:5%;left:0;width:1.3em;height:90%;background-color:#fff;z-index:0}.side-expand:after{font-family:icon-font;font-size:1em;color:#000;content:"\e00e";position:absolute;top:49%;left:5px;vertical-align:center;cursor:pointer}.side-expand:hover:after{color:#000;left:5px}@media all and (min-width: 800px){.side-expand{visibility:hidden}}.side-expand-open{right:0}.side-expand-open .side-expand:after{content:"\e00f"}#tertiary{clear:right}#colophon{clear:both}.site-footer{background:#ebe8e4;color:#000 !important;width:100%;height:8em}@media all and (min-width: 800px){.site-footer{background:transparent}}.footer-logo{font-family:'icon-font';font-size:3.5em;display:block;opacity:0.7}.footer-logo img{width:18em}.site-info{display:block;font-size:75%}.footer-column{display:inline-block;float:left;margin-right:5em}.footer-column p{margin:0;padding-top:0.8em;font-size:85%}.footer-column p a{text-decoration:none}.footer-column p a:hover{text-decoration:underline}.foot-noscript{font-family:"Open Sans",sans-serif;text-align:center;background:rgba(255,0,0,0.9);color:#fff;font-size:1.5em;height:4em;padding:1em 0;margin:0;position:fixed;bottom:0;left:0;width:100%;z-index:999999999}.foot-noscript a{color:#fff;font-weight:bold;text-decoration:underline}.old-ie-nojs{display:none}.profile{display:block;margin-top:2em}.profile p{margin-bottom:1em}.profile img{display:block}@font-face{font-family:"icon-font";font-style:normal;font-weight:normal;src:url("fonts/icomoon.eot?#iefix") format("embedded-opentype"),url("fonts/icomoon.woff") format("woff"),url("fonts/icomoon.ttf") format("truetype"),url("fonts/icomoon.svg#icon-font") format("svg")}.body-text{color:#000;font-family:"Open Sans",sans-serif;font-size:1.6em;font-weight:regular;line-height:1.5;padding:1em}.menu-text{color:#e6e6e6;font-family:"Open Sans",sans-serif;font-size:1.4em;font-weight:100;line-height:1.5}.widget-text{color:#000;font-family:"Open Sans",sans-serif;font-size:1.2em;font-weight:regular;line-height:1.5;padding:0.5em 0.5em 0.5em 1.5em}@media all and (min-width: 800px){.widget-text{color:#000;padding:0.5em}}.alert{-webkit-border-radius:2px;-moz-border-radius:2px;-ms-border-radius:2px;-o-border-radius:2px;border-radius:2px;font-size:0.8em;padding:0.75em}.success{border:1px solid #64672d;background-color:#e8e9cd}.success a{color:#64672d}.success:focus{background-color:#fff}.fail{border:1px solid #bf0000;background-color:#ffe3e3}.fail a{color:#bf0000}.fail:focus{background-color:#fff}.info{border:1px solid #40abba;background-color:#fff}.info a{color:#40abba}.info:focus{background-color:#fff}.laylah{left:-9999px;position:absolute;top:-9999px}.welshimer-form .form{margin:0.5em 0}.welshimer-form .submit{display:block;-webkit-border-radius:2px;-moz-border-radius:2px;-ms-border-radius:2px;-o-border-radius:2px;border-radius:2px;background-color:#40abba;border:solid 1px #333;color:#fff;margin:1em 0;padding:0.5em 2em;text-align:center;text-decoration:none}.welshimer-form .submit:hover{-webkit-transition:all 200ms ease-out;-webkit-transition-delay:100ms;-moz-transition:all 200ms ease-out 100ms;-o-transition:all 200ms ease-out 100ms;transition:all 200ms ease-out 100ms;background-color:#ea7125;cursor:pointer}.welshimer-form .text,.welshimer-form .textarea{display:inline-block;width:100%;padding:0.5em;margin-right:1%;vertical-align:top}.welshimer-form .quarter{width:24%}.welshimer-form .half{width:49%}.welshimer-form .three-fourths{width:74%}.welshimer-form .full{width:99%}.welshimer-form .label{display:block}@media all and (min-width: 600px){.welshimer-form .text,.welshimer-form .textarea{width:74%}.welshimer-form .three-fourths{width:49%}.welshimer-form .half{width:24%}.welshimer-form .quarter{width:24%}.welshimer-form .label{display:inline-block;width:24%;margin-right:1%}}.acc-list{margin:0.5em 0;padding:0;list-style:none}.acc-list-category{display:block;-webkit-border-radius:2px;-moz-border-radius:2px;-ms-border-radius:2px;-o-border-radius:2px;border-radius:2px;background-color:#40abba;color:#fff;cursor:pointer;margin:0.25em 0;padding:0.5em 2em 0.5em 0.5em;position:relative;overflow:hidden;text-overflow:ellipsis;white-space:nowrap}.acc-list-category:hover{background-color:#ea7125;color:#fff}.acc-list-category:after{content:'\002b';position:absolute;right:0.5em;font-family:icon-font}div.acc-list a.acc-list-category{white-space:normal}div.acc-list a.acc-list-category:after{content:none}.open-item>a:after{content:'\2013'}.acc-sublist{border-left:solid 1px #40abba;list-style:none;margin:0;padding:0}.acc-sublist li{background:rgba(100,103,45,0.05);padding:0 0 0 3.5em;position:relative}.acc-sublist li:before{content:"";display:inline-block;width:3em;height:26px;position:absolute;left:0.25em;top:0}.acc-sublist li:nth-of-type(even){background:rgba(64,171,186,0.2)}.acc-sublist li:hover{background:rgba(64,171,186,0.4)}.acc-sublist a{color:#000;text-decoration:none}div.acc-list div.acc-sublist{padding:10px}div.acc-list div.acc-sublist li{padding:0}div.acc-list div.open-item>a:after{content:none !important}.mc:before{background-position:0 -45px}.mctop_re:before{background-position:0 -19px}.top_re:before{background-position:0 -97px}.key span{display:block;margin:0.25em;padding:0 0 0 2em}.key-mc{background-position:0 -45px}.key-topre{background-position:0 -123px}.hidden{display:none !important}.logged-in #mobile-menu-wrapper{top:0px}.logged-in .secondary-menu-select{top:12px}

diff --git a/sass/style.scss b/sass/style.scss
@@ -1,5 +1,5 @@
-/*
-Theme Name: Welshimer 2015
+/*!
+Theme Name: Welshimer 2015 PR Compliant Edition
 Theme URI: http://github.com/dbaker3/welshimer2015
 Author: David Baker
 Author URI: http://github.com/dbaker3/
